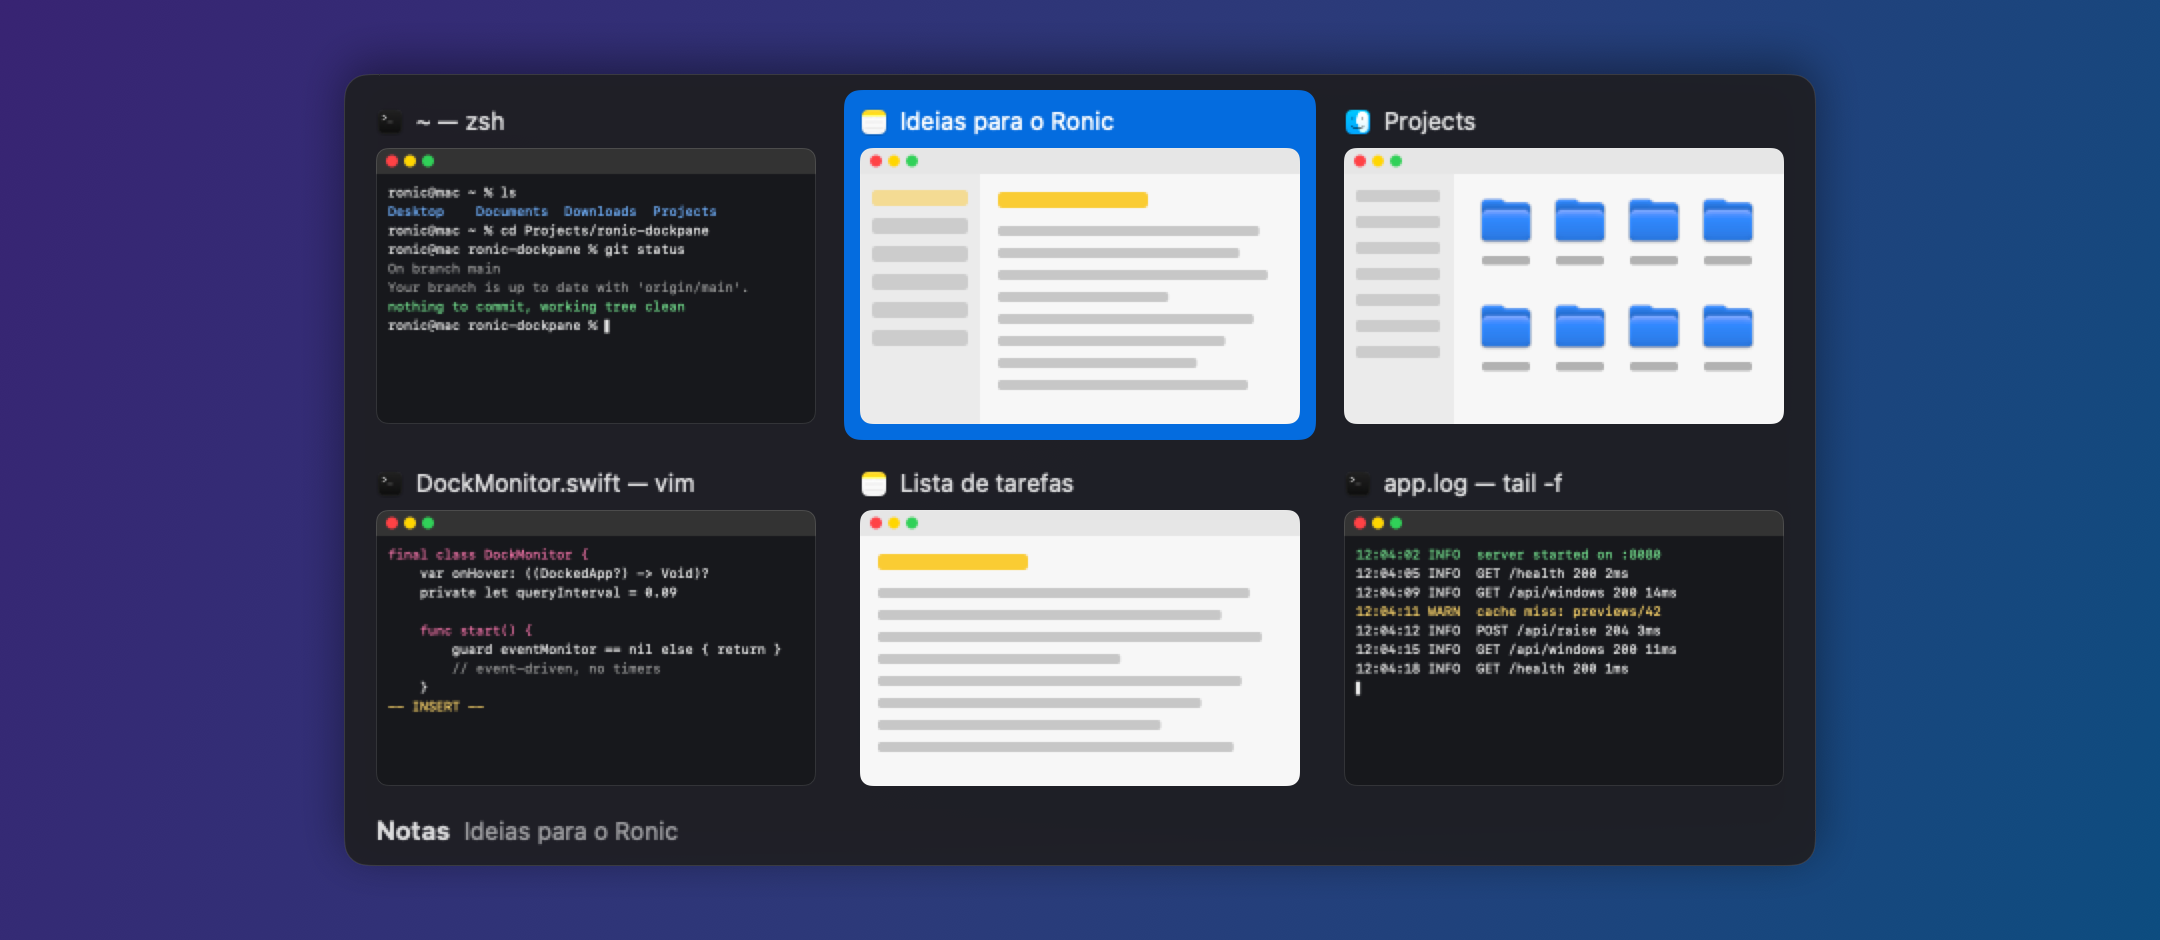
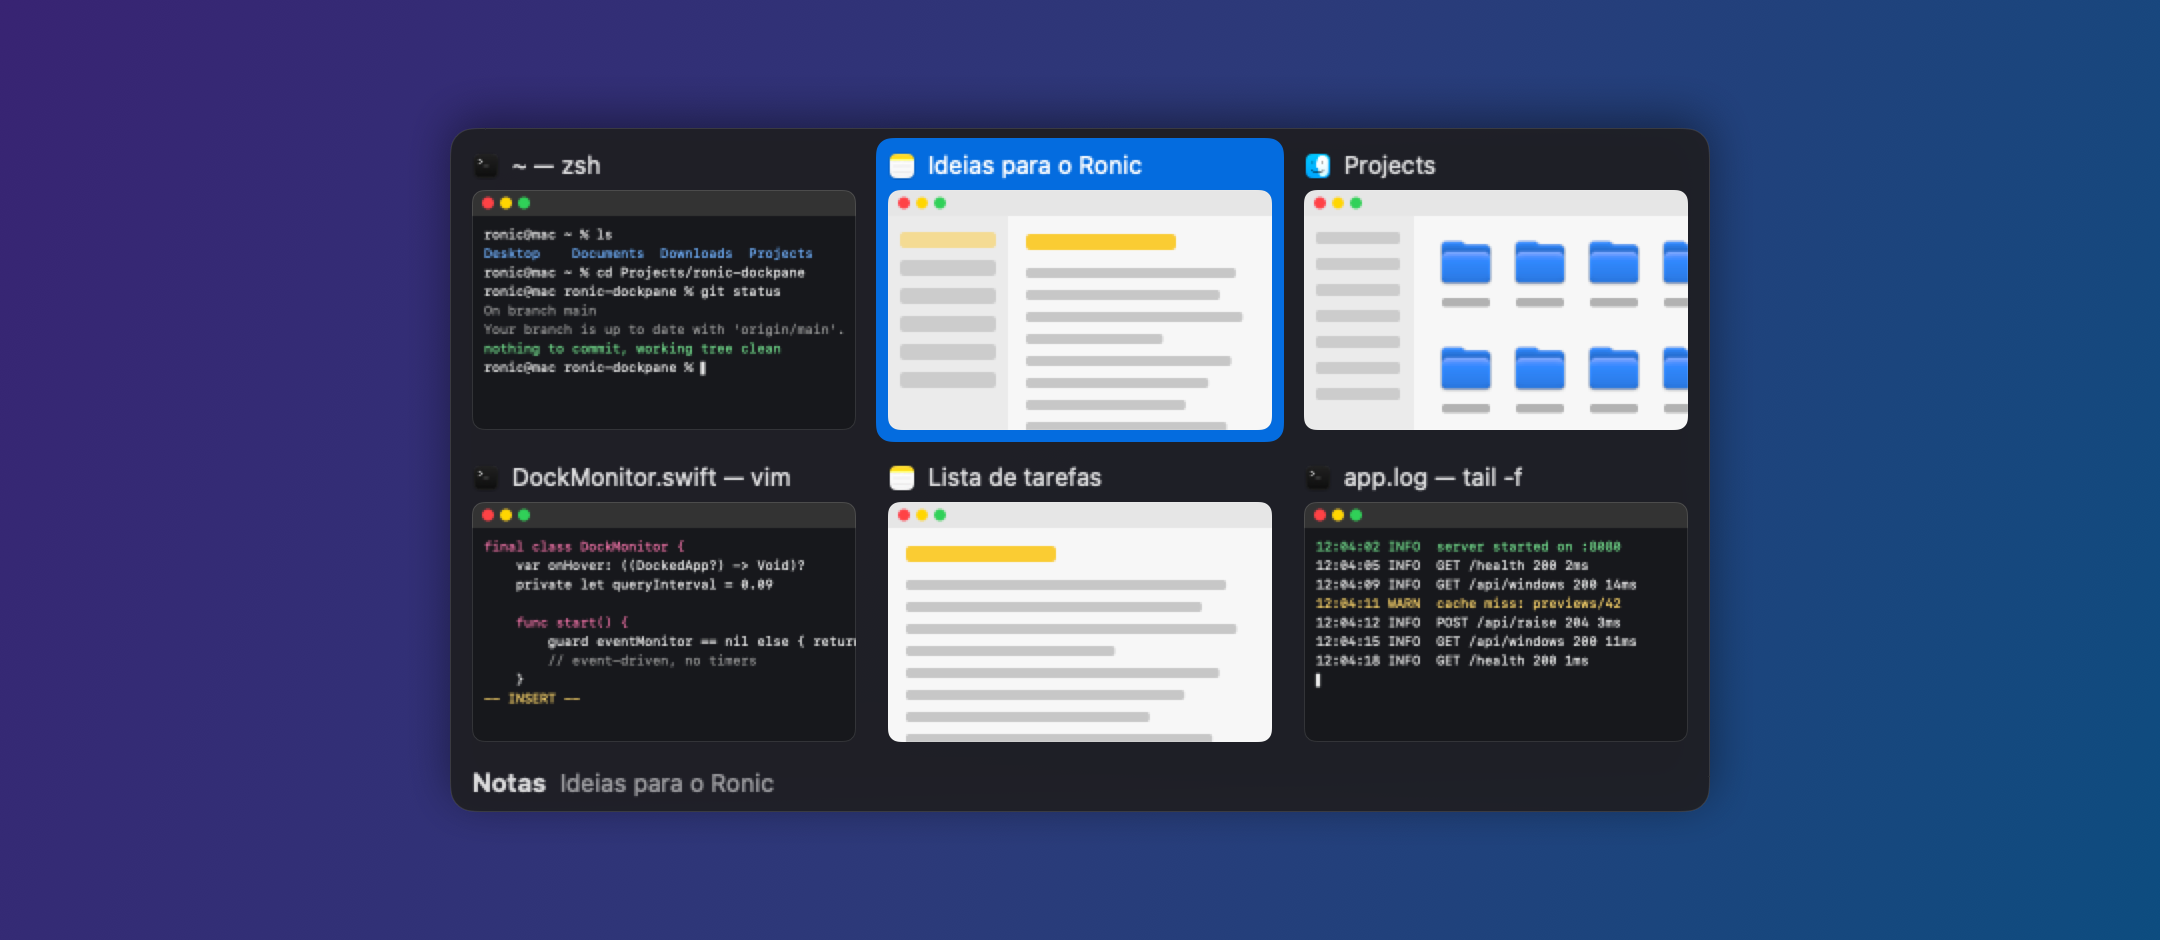
Ronic DockPane 0.4.1: cartões e margens um pouco menores
- Miniaturas de 220×138 para 192×120 pontos (painel do Dock e ⌥Tab).
- Margens mais justas: borda do painel 8→5, em volta de cada cartão
  8→6 e espaço entre cartões 6→4.

diff --git a/Sources/DockPane/WindowListView.swift b/Sources/DockPane/WindowListView.swift
@@ -40,7 +40,7 @@ struct WindowListView: View {
         VStack(alignment: .leading, spacing: 0) {
             if model.windows.isEmpty {
                 AppCard(app: model.app, onReopen: onReopenApp, onQuit: onQuitApp)
-                    .padding(8)
+                    .padding(5)
             } else if model.showPreviews {
                 // Each card already shows the app icon and the window title, so no header here.
                 cards
@@ -82,9 +82,9 @@ struct WindowListView: View {
         let rows = stride(from: 0, to: visible.count, by: columns).map {
             Array(visible[$0..<min($0 + columns, visible.count)])
         }
-        return VStack(alignment: .leading, spacing: 6) {
+        return VStack(alignment: .leading, spacing: 4) {
             ForEach(rows.indices, id: \.self) { index in
-                HStack(alignment: .top, spacing: 6) {
+                HStack(alignment: .top, spacing: 4) {
                     ForEach(rows[index]) { window in
                         PreviewCard(window: window, icon: model.app.icon,
                                     image: model.previews[window.id], onSelect: onSelect, onClose: onClose)
@@ -95,7 +95,7 @@ struct WindowListView: View {
                 Text("+\(model.windows.count - maxCards) mais")
                     .font(.system(size: 11))
                     .foregroundStyle(.secondary)
-                    .padding(.horizontal, 8)
+                    .padding(.horizontal, 6)
             }
             if model.needsPermission {
                 Button(action: onEnablePreviews) {
@@ -111,7 +111,7 @@ struct WindowListView: View {
                 .padding(.top, 2)
             }
         }
-        .padding(8)
+        .padding(5)
     }
 
     // MARK: - Plain list (no Screen Recording permission)
@@ -158,7 +158,7 @@ private struct AppCard: View {
     private var size: CGSize { WindowPreviewProvider.thumbnailSize }
 
     var body: some View {
-        VStack(alignment: .leading, spacing: 6) {
+        VStack(alignment: .leading, spacing: 5) {
             HStack(spacing: 6) {
                 Image(nsImage: app.icon)
                     .resizable()
@@ -189,7 +189,7 @@ private struct AppCard: View {
             )
         }
         .foregroundStyle(isHovered ? Color.white : Color.primary)
-        .padding(8)
+        .padding(6)
         .overlay(alignment: .topLeading) {
             if isHovered {
                 Button(action: onQuit) {
@@ -233,7 +233,7 @@ struct PreviewCard: View {
     private var size: CGSize { WindowPreviewProvider.thumbnailSize }
 
     var body: some View {
-        VStack(alignment: .leading, spacing: 6) {
+        VStack(alignment: .leading, spacing: 5) {
             HStack(spacing: 6) {
                 Image(nsImage: icon)
                     .resizable()
@@ -256,7 +256,7 @@ struct PreviewCard: View {
                 )
         }
         .foregroundStyle(isHighlighted ? Color.white : Color.primary)
-        .padding(8)
+        .padding(6)
         .overlay(alignment: .topLeading) {
             if isHovered {
                 Button { onClose(window) } label: {

diff --git a/Sources/DockPane/WindowSwitcher.swift b/Sources/DockPane/WindowSwitcher.swift
@@ -572,11 +572,11 @@ struct SwitcherView: View {
     let onHover: (Int) -> Void
     let onClose: (Int) -> Void
 
-    static let spacing: CGFloat = 6
+    static let spacing: CGFloat = 4
     /// A `PreviewCard`: the thumbnail plus its padding and title row.
     static var cardSize: CGSize {
         let thumb = WindowPreviewProvider.thumbnailSize
-        return CGSize(width: thumb.width + 16, height: thumb.height + 42)
+        return CGSize(width: thumb.width + 12, height: thumb.height + 37)
     }
 
     private var gridWidth: CGFloat {
@@ -603,7 +603,7 @@ struct SwitcherView: View {
             }
             footer
         }
-        .padding(8)
+        .padding(5)
     }
 
     private func card(at index: Int) -> some View {
@@ -633,7 +633,7 @@ struct SwitcherView: View {
             }
         }
         .lineLimit(1)
-        .padding(.horizontal, 8)
+        .padding(.horizontal, 6)
         .frame(width: gridWidth)
         .padding(.bottom, 2)
     }

diff --git a/Sources/DockPane/WindowPreviewProvider.swift b/Sources/DockPane/WindowPreviewProvider.swift
@@ -16,7 +16,7 @@ struct PreviewRequest {
 
 enum WindowPreviewProvider {
     /// Longest side of a thumbnail in points; captured at 2x.
-    static let thumbnailSize = CGSize(width: 220, height: 138)
+    static let thumbnailSize = CGSize(width: 192, height: 120)
 
     static var isSupported: Bool {
         if #available(macOS 14.0, *) { return true }
